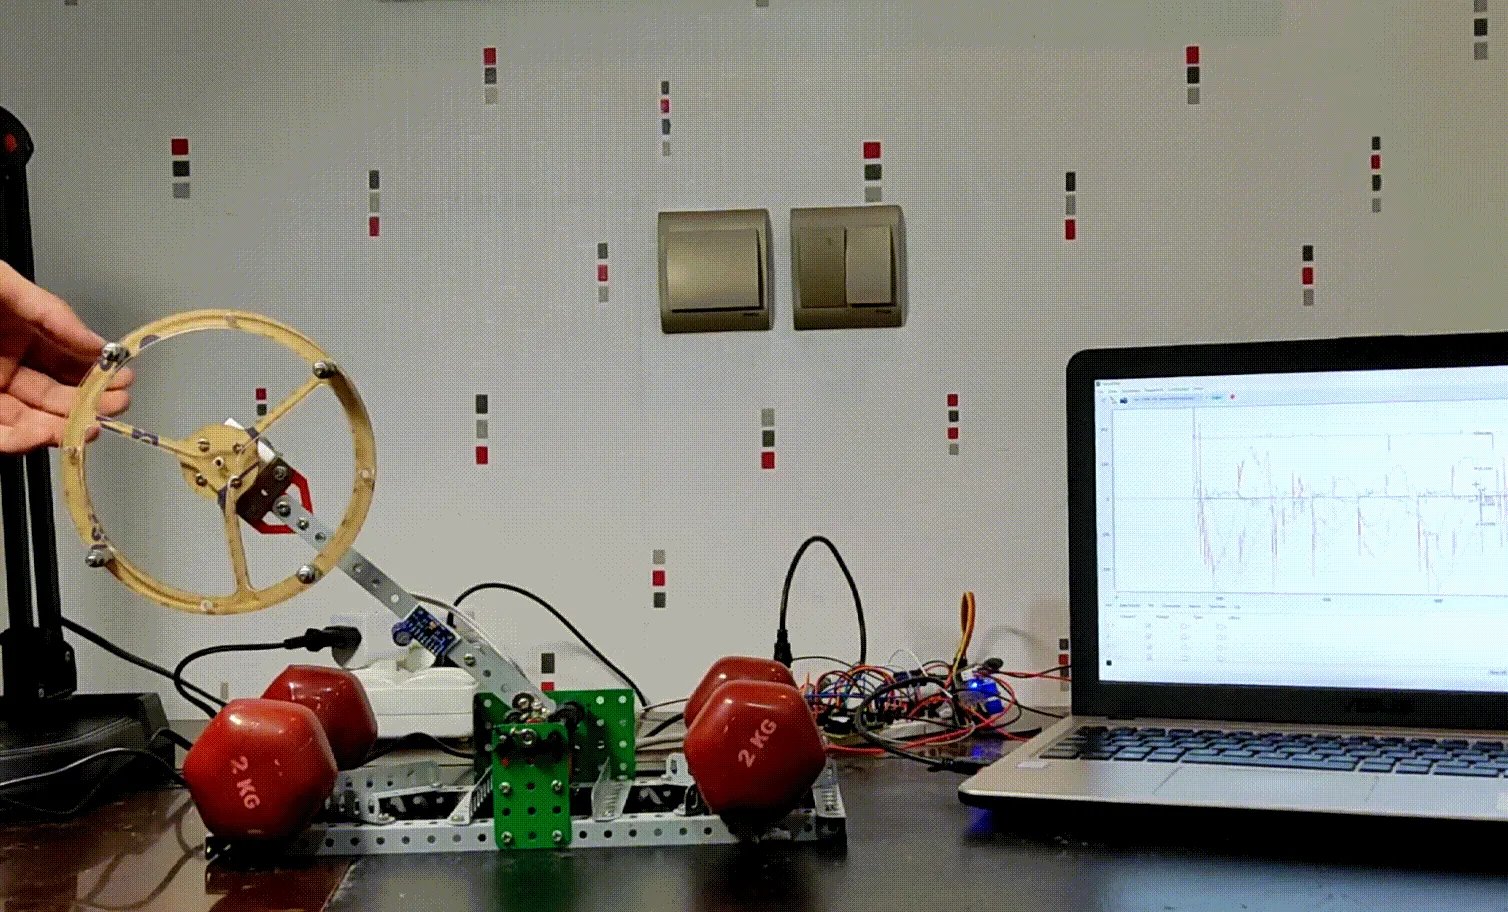
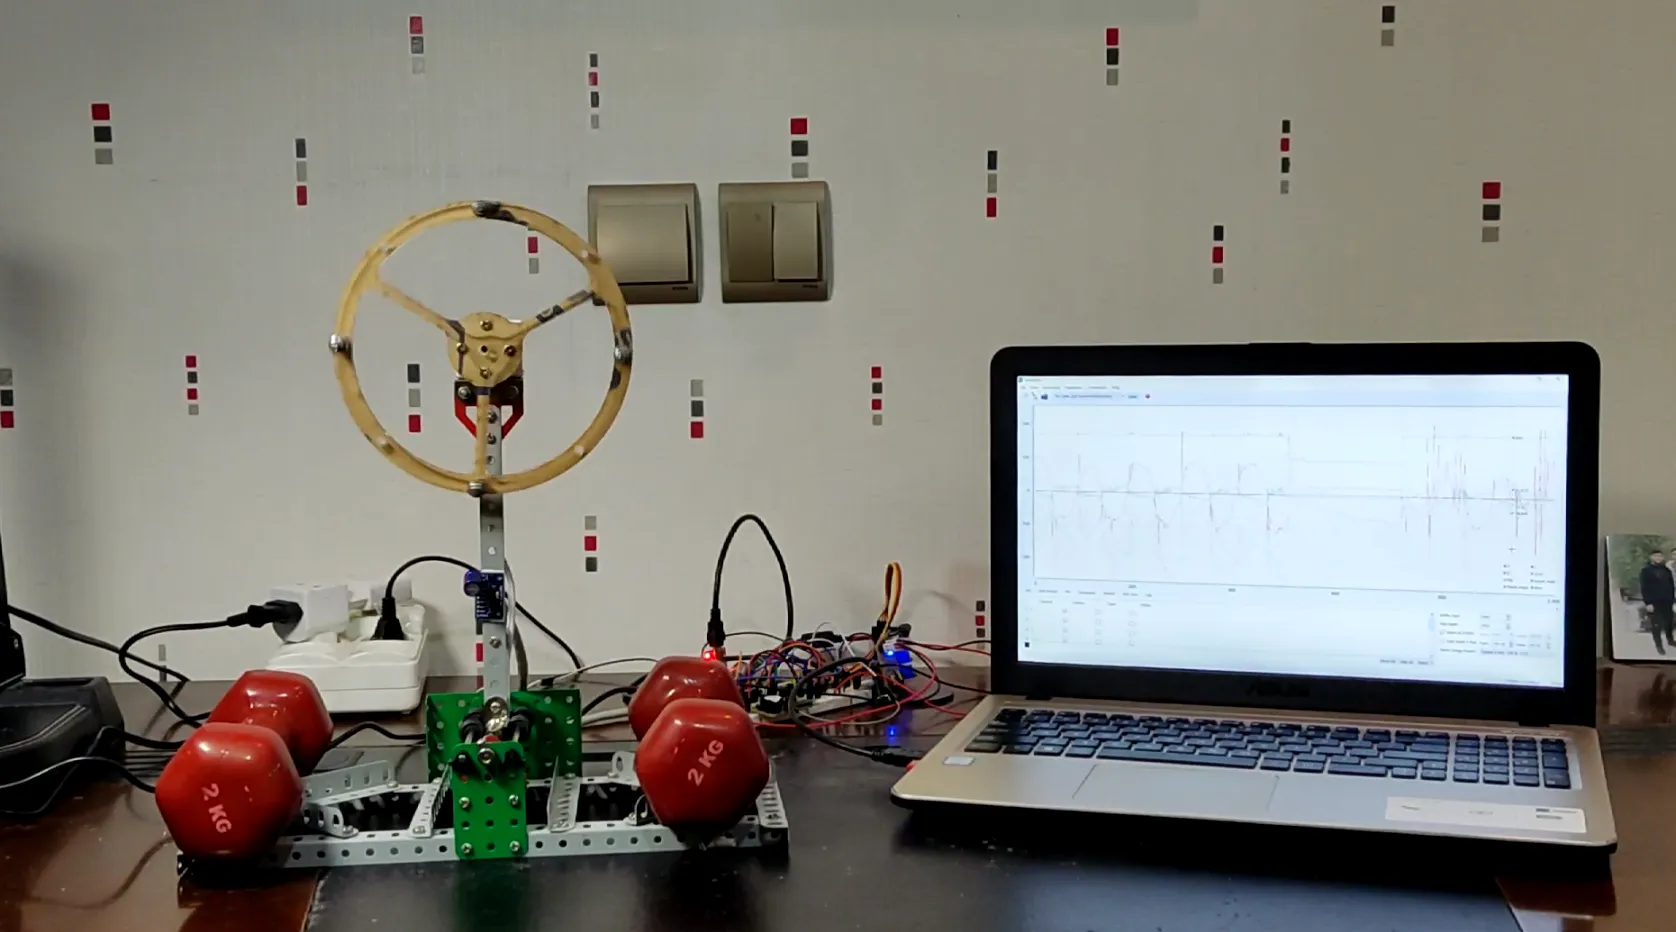
done

diff --git a/src/components/Header.tsx b/src/components/Header.tsx
@@ -6,7 +6,7 @@ const navItems = [
   { label: 'ABOUT', href: '#about' },
   { label: 'PROJECTS', href: '#projects' },
   { label: 'SKILLS', href: '#skills' },
-  { label: 'RESEARCH', href: '#research' },
+  { label: 'EDUCATIONS', href: '#education' },
   { label: 'CONTACT', href: '#contact' }
 ];
 
@@ -20,10 +20,18 @@ const Header = ({ theme, onThemeToggle }: { theme: 'dark' | 'light'; onThemeTogg
     const updateActiveSection = () => {
       const scrollPos = window.scrollY + 120;
       let current = 'about';
+      let closestDistance = Infinity;
 
       sections.forEach((section, index) => {
-        if (section && section.getBoundingClientRect().top + window.scrollY <= scrollPos) {
-          current = navItems[index].label.toLowerCase();
+        if (section) {
+          const sectionTop = section.getBoundingClientRect().top + window.scrollY;
+          if (sectionTop <= scrollPos) {
+            const distance = scrollPos - sectionTop;
+            if (distance < closestDistance) {
+              closestDistance = distance;
+              current = navItems[index].label.toLowerCase();
+            }
+          }
         }
       });
 
@@ -52,7 +60,12 @@ const Header = ({ theme, onThemeToggle }: { theme: 'dark' | 'light'; onThemeTogg
               onError={(e) => {
                 e.currentTarget.style.display = 'none';
                 const parent = e.currentTarget.parentElement;
-                if (parent) parent.textContent = 'MB';
+                if (parent) {
+                  parent.textContent = 'MB';
+                  parent.style.color = 'white';
+                  parent.style.fontSize = '0.875rem';
+                  parent.style.fontWeight = 'bold';
+                }
               }}
             />
           </div>

diff --git a/src/App.tsx b/src/App.tsx
@@ -14,6 +14,7 @@ import { projects } from './data/projects';
 
 export default function App() {
   const [activeProjectId, setActiveProjectId] = useState<number | null>(null);
+  const [savedScroll, setSavedScroll] = useState<number | null>(null);
   const [theme, setTheme] = useState<'dark' | 'light'>(() => {
     if (typeof window === 'undefined') return 'dark';
     const stored = window.localStorage.getItem('theme');
@@ -32,6 +33,12 @@ export default function App() {
   );
 
   useEffect(() => {
+    if (selectedProject) {
+      window.scrollTo({ top: 0, behavior: 'smooth' });
+    }
+  }, [selectedProject]);
+
+  useEffect(() => {
     const handleHashChange = () => {
       const hash = window.location.hash.replace('#project-', '');
       if (!hash) {
@@ -48,6 +55,7 @@ export default function App() {
   }, []);
 
   const openProject = (projectId: number, slug: string) => {
+    setSavedScroll(window.scrollY);
     window.history.pushState(null, '', `#project-${slug}`);
     setActiveProjectId(projectId);
   };
@@ -55,13 +63,17 @@ export default function App() {
   const closeProject = () => {
     window.history.pushState(null, '', '#projects');
     setActiveProjectId(null);
+    if (savedScroll !== null) {
+      window.scrollTo({ top: savedScroll, behavior: 'smooth' });
+      setSavedScroll(null);
+    }
   };
 
   return (
     <div className="min-h-screen bg-brand-black text-brand-silver selection:bg-brand-purple/40">
       <Header theme={theme} onThemeToggle={() => setTheme((prev) => (prev === 'dark' ? 'light' : 'dark'))} />
       <main>
-        <Hero />
+        {!selectedProject && <Hero />}
         {selectedProject ? (
           <ProjectDetail project={selectedProject} onBack={closeProject} />
         ) : (

diff --git a/src/data/projectImages.ts b/src/data/projectImages.ts
@@ -11,8 +11,10 @@ import mazeSolver4 from '../../project image/maze solver/16.webp';
 import mazeSolver5 from '../../project image/maze solver/maze.webp';
 import invertedPendulumGif from '../../project image/inverted pandul/20260517-092827.webp';
 import invertedPendulumPhoto from '../../project image/inverted pandul/13.webp';
-import selfBalancingGif from '../../project image/self balance/20260517-092507.webp';
-import selfBalancingPhoto from '../../project image/self balance/Screenshot.webp';
+import selfBalancingCover from '../../project image/self balance/screenshot-20260520-131449.webp';
+import selfBalancingDetail1 from '../../project image/self balance/screenshot-20260520-130918.webp';
+import selfBalancingDetail2 from '../../project image/self balance/20260517-092507.webp';
+import selfBalancingDetail3 from '../../project image/self balance/Screenshot.webp';
 import soccerRobot from '../../project image/soccer/photo_2021-05-26_00-43-38.webp';
 import vendingMachine from '../../project image/vending/photo_2025-12-28_14-39-23.webp';
 import revider1 from '../../project image/revider/Screenshot 2026-05-17 090422.webp';
@@ -24,7 +26,7 @@ export const projectImages = {
   ballAndPlate: [ballAndPlate],
   mazeSolver: [mazeSolver1, mazeSolver2, mazeSolver3, mazeSolver4, mazeSolver5],
   invertedPendulum: [invertedPendulumGif, invertedPendulumPhoto],
-  selfBalancing: [selfBalancingGif, selfBalancingPhoto],
+  selfBalancing: [selfBalancingCover, selfBalancingDetail1, selfBalancingDetail2, selfBalancingDetail3],
   vendingMachine: [vendingMachine],
   soccerRobot: [soccerRobot],
   revider: [revider1, revider2],